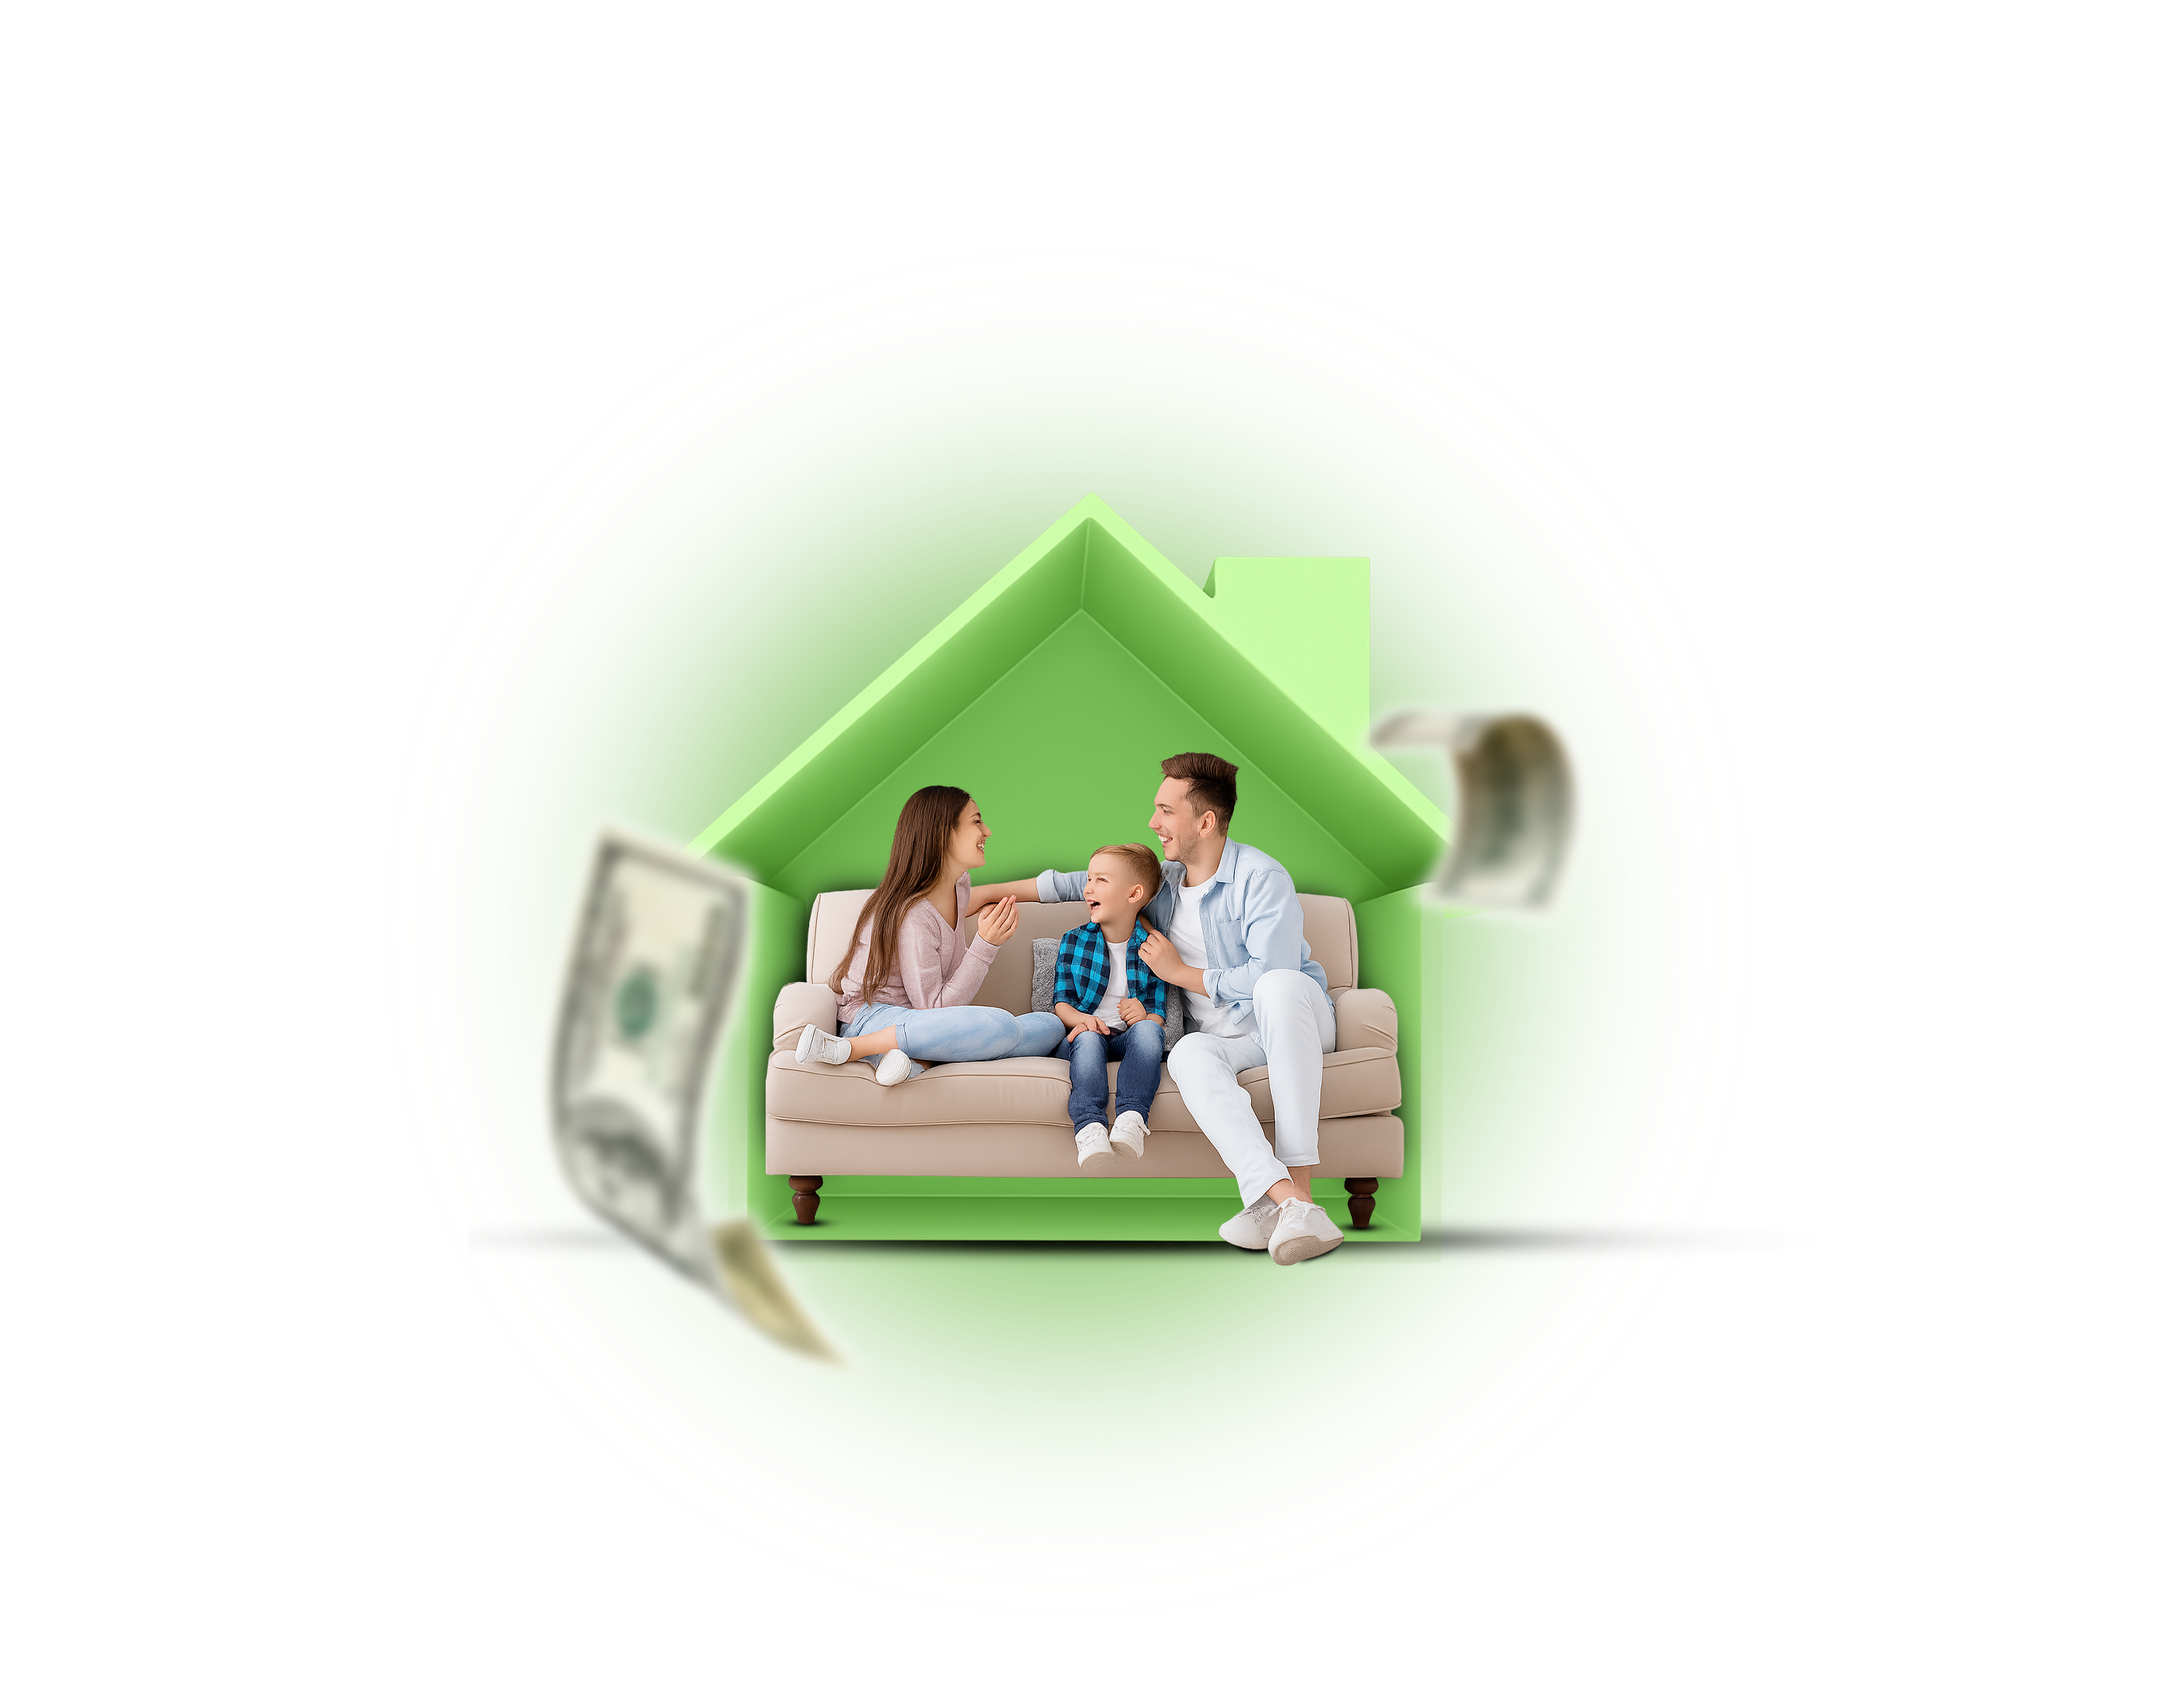
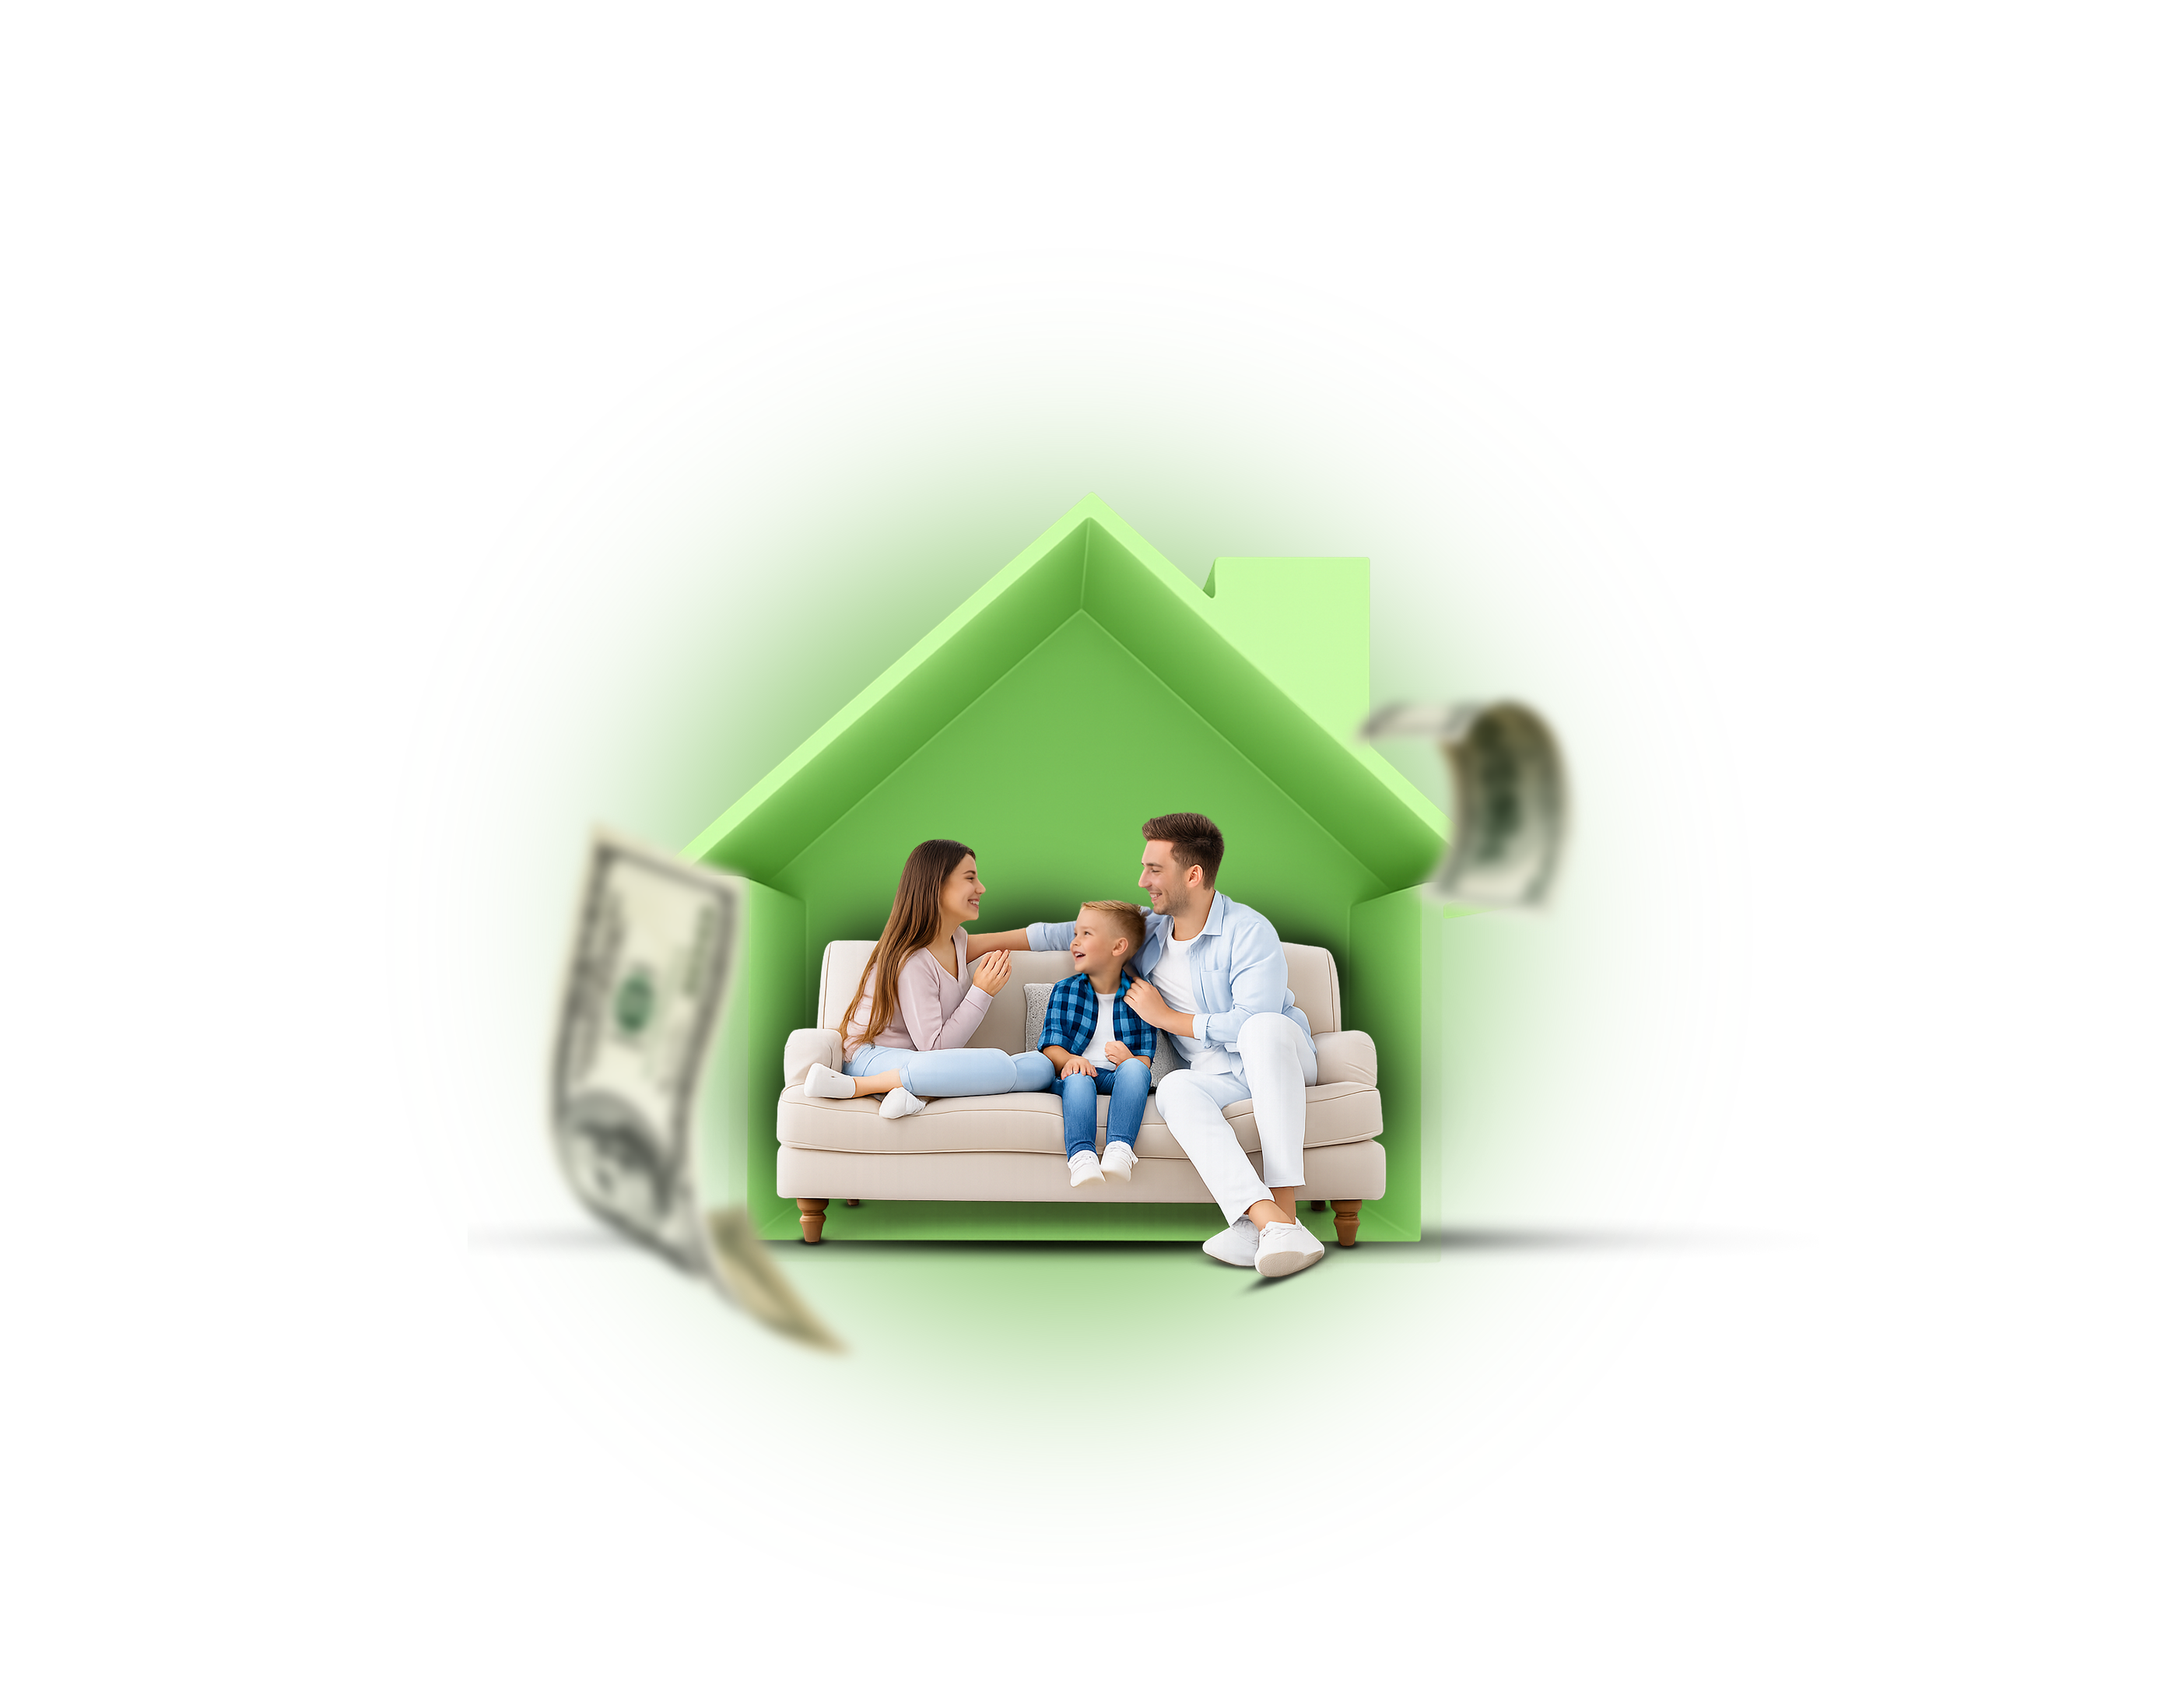
FINAL 4

diff --git a/V3/index.html b/V3/index.html
@@ -105,7 +105,7 @@
             border="0"
             width="600"
             style="
-              background-image: url('https://raw.githubusercontent.com/ChaosAfterParty/email_models/main/V3/assets/illustration.png');
+              background-image: url('https://raw.githubusercontent.com/ChaosAfterParty/email_models/main/V3/assets/illustration2.png');
               background-size: cover;
               background-position: center;
               background-repeat: no-repeat;
@@ -272,7 +272,7 @@
                     <td
                       class="content-cell"
                       align="center"
-                      style="padding: 45px 40px 0px 40px;"
+                      style="padding: 80px 40px 0px 40px;"
                     >
                       <table
                         role="presentation"
@@ -314,7 +314,7 @@
                     <td
                       class="social-icons"
                       align="center"
-                      style="padding: 30px 40px 10px 40px;"
+                      style="padding: 25px 40px 10px 40px;"
                     >
                       <table
                         role="presentation"
